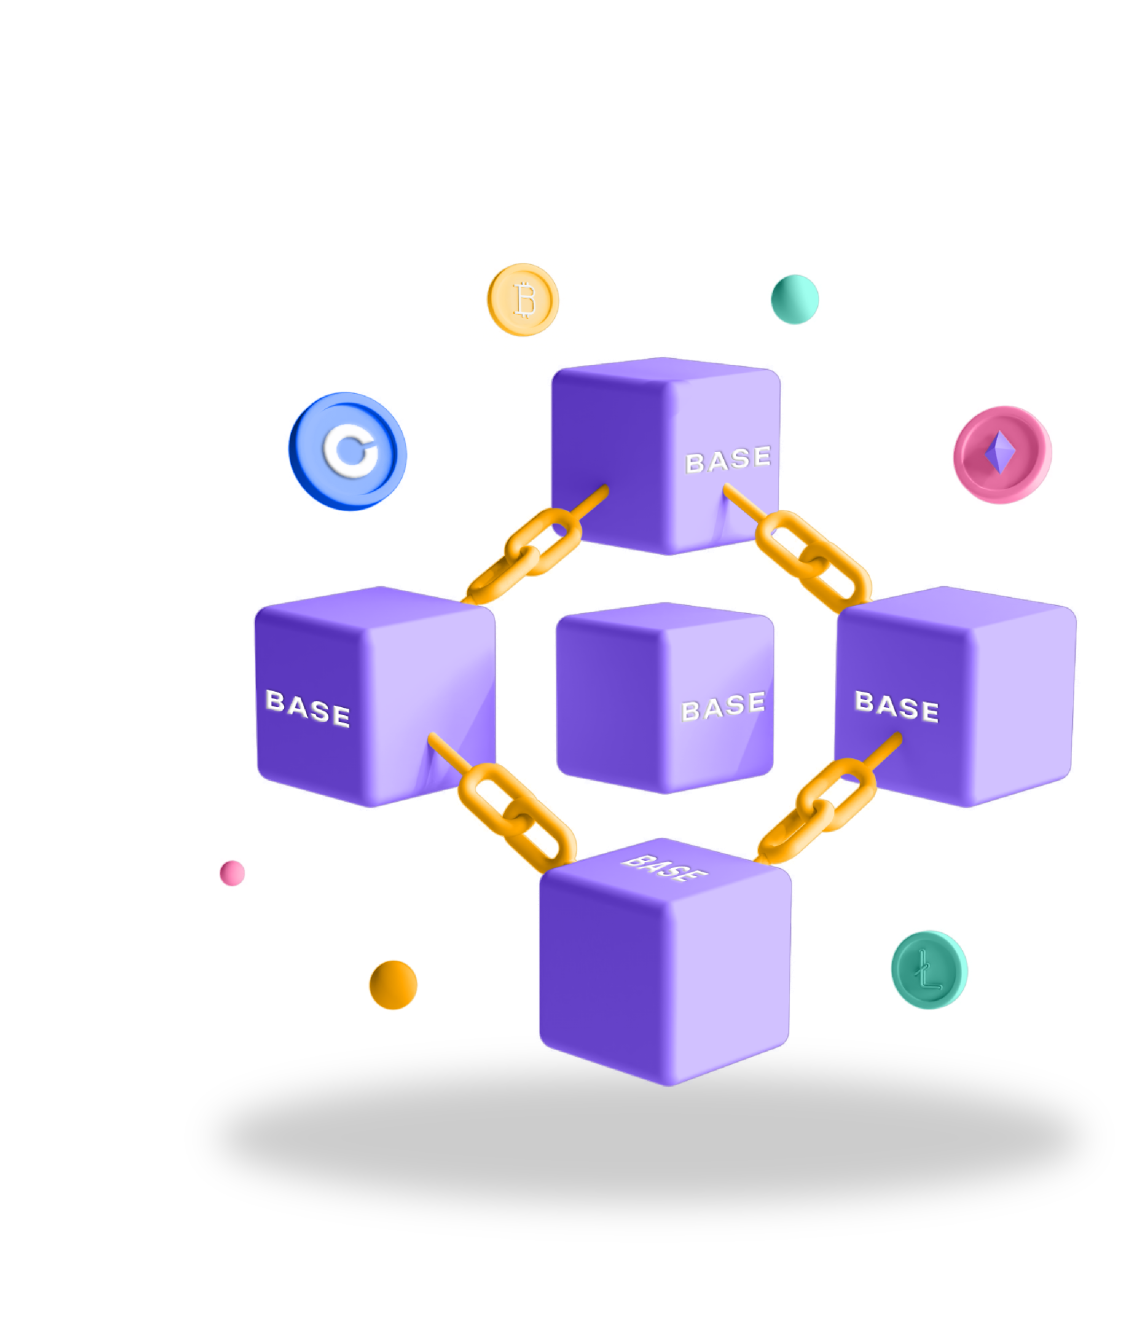
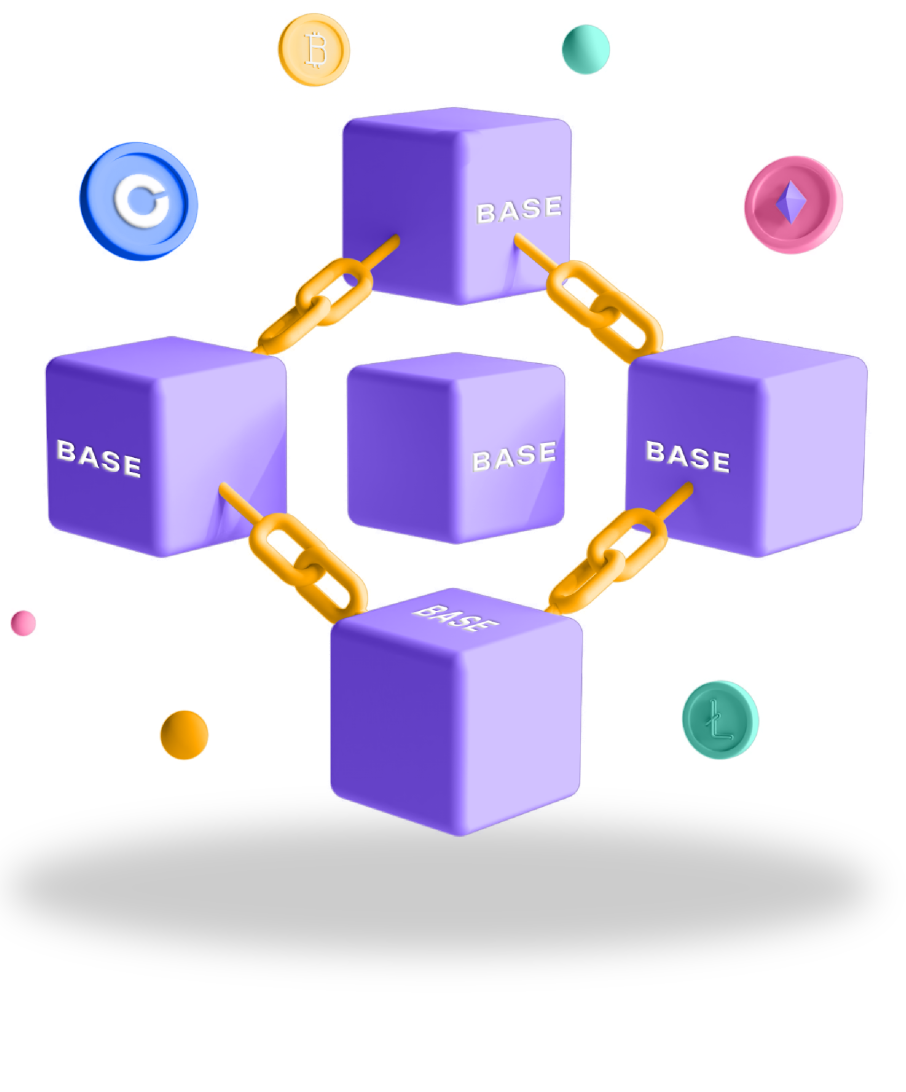
update

diff --git a/index.html b/index.html
@@ -211,15 +211,16 @@
                 <div class="container container-1"> 
                     <div class="row">
                         <div class="col-lg-10">                                                              
-                                <div class="" >
-                                    <h1 class="home__banner-title">Breezy <br> <span>Pioneering DeFi on Base</span></h1>
-                                    <div class="home__title-medium">Discover a holistic DeFi journey on Base, the innovative blockchain by CoinBase. Delve into seamless trading, reward harvesting, and asset cultivation, all within one decentralized ecosystem.</div>
-                                </div>                            
-                                <div class="img">
-                                    <img src="../assets/images/home-item-1.png" alt="">
-                                </div>                
+                            <div class="" >
+                                <h1 class="home__banner-title">Breezy <br> <span>Pioneering DeFi on Base</span></h1>
+                                <div class="home__title-medium">Discover a holistic DeFi journey on Base, the innovative blockchain by CoinBase. Delve into seamless trading, reward harvesting, and asset cultivation, all within one decentralized ecosystem.</div>
+                            </div>                                        
                         </div>
-                        <div class="col-lg-2"></div>
+                        <div class="col-lg-2">
+                            <div class="img">
+                                <img src="../assets/images/home-item-1.png" alt="">
+                            </div>    
+                        </div>
                     </div>
                 </div>
             </article>

diff --git a/assets/css/style.css b/assets/css/style.css
@@ -752,6 +752,7 @@ h6 {
 .page__home {
     background: linear-gradient(225deg, #F5F7FF 0%, #FFF 0%, #EDF9FF 47.19%, #E8EDFF 100%);
     padding-top: 100px;
+    overflow-x: hidden;
 }
 
 .home__title-xlarge {
@@ -791,11 +792,13 @@ h6 {
 }
 .home-top-banner .img {
     position: absolute;
-    right: 8%;
-    top: -20%;
-    max-width: 40%;
+    right: -5%;
+    top: 15%;
+    width: 45%;
 }
-  
+.home-top-banner .img img {
+    width: 70%;
+}
 #home__assets {
     background:  #F2F4F5;
     margin-top: 54px;
@@ -1407,7 +1410,16 @@ input:checked+.slider:before {
     width: 100%;
     padding-right: 18px;
 }
-
+@media screen and (min-width: 1920px) {
+    .home-top-banner .img img {
+        width: 65%;
+    }
+}
+@media screen and (min-width: 2560px) {
+    .home-top-banner .img img {
+        width: 50%;
+    }
+}
 @media screen and (min-width: 1200px) {
     .container-1 {
         max-width: 1300px;
